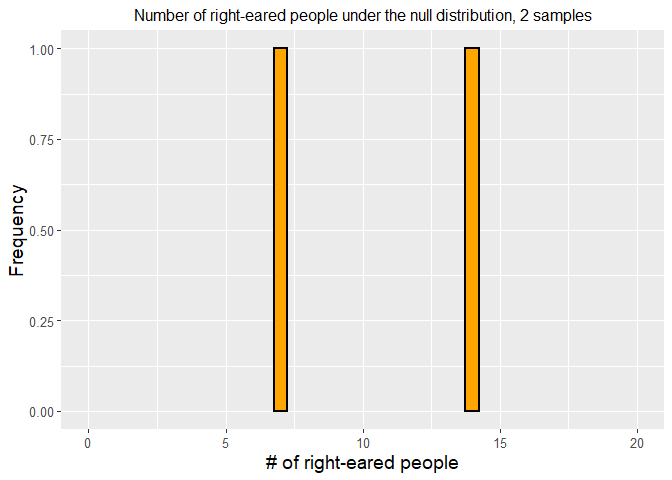
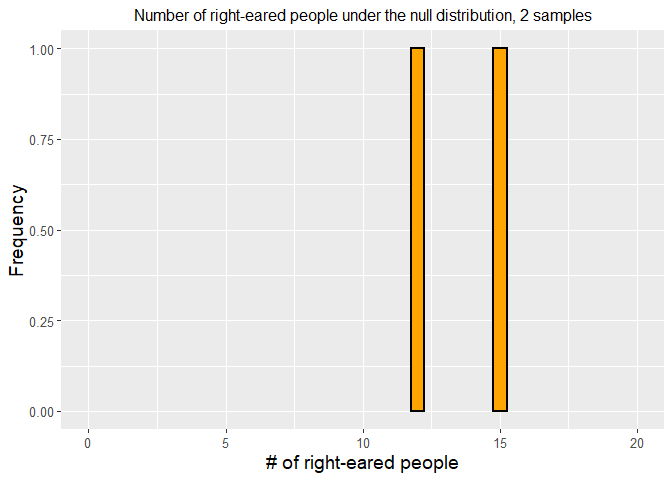
commit and push, 1146, 11/4/2022

Changed region(s): [[0.6875, 0.0938, 0.7812, 0.875], [0.5938, 0.0938, 0.6562, 0.875], [0.4062, 0.0938, 0.4375, 0.875]]

diff --git a/docs/ex3_introduction_to_hypothesis_testing_via_binomial_test.html b/docs/ex3_introduction_to_hypothesis_testing_via_binomial_test.html
@@ -326,7 +326,7 @@ div.tocify {
   <a href="about.html">About</a>
 </li>
 <li>
-  <a href="ex3_introduction_to_hypothesis_testing_via_binomial_tests.html">Lesson 3</a>
+  <a href="ex3_introduction_to_hypothesis_testing_via_binomial_test.html">Lesson 3</a>
 </li>
 <li>
   <a href="ex6_continuous_tests_for_two_populations.html">Lesson 6</a>
@@ -346,7 +346,7 @@ div.tocify {
 <h1 class="title toc-ignore">3. Introduction to hypothesis testing via
 binomial tests</h1>
 <h4 class="author">jjh</h4>
-<h4 class="date">Last compiled on 04 November, 2022 11:37</h4>
+<h4 class="date">Last compiled on 04 November, 2022 11:45</h4>
 
 </div>
 
@@ -565,7 +565,7 @@ ggplot(sampling_experiment_df, aes(Right_Handed)) +
   guides(fill = F)</code></pre>
 <pre><code>## Warning: `guides(&lt;scale&gt; = FALSE)` is deprecated. Please use `guides(&lt;scale&gt; =
 ## &quot;none&quot;)` instead.</code></pre>
-<pre><code>## Warning: Removed 8 rows containing non-finite values (stat_count).</code></pre>
+<pre><code>## Warning: Removed 4 rows containing non-finite values (stat_count).</code></pre>
 <pre><code>## Warning: Removed 1 rows containing missing values (geom_bar).</code></pre>
 <p><img
 src="ex3_introduction_to_hypothesis_testing_via_binomial_test_files/figure-html/unnamed-chunk-10-1.png" /><!-- --></p>
@@ -623,7 +623,7 @@ src="ex3_introduction_to_hypothesis_testing_via_binomial_test_files/figure-html/
 #using our sample
 length(sampling_experiment[sampling_experiment &gt;= 14 | sampling_experiment &lt;= 4])/
   length(sampling_experiment)</code></pre>
-<pre><code>## [1] 0.3458</code></pre>
+<pre><code>## [1] 0.3497</code></pre>
 <pre class="r"><code>#binomial test####
 binom.test(x = 19, n = 25, p = 0.5)</code></pre>
 <pre><code>## 

diff --git a/ex3_introduction_to_hypothesis_testing_via_binomial_test.md b/ex3_introduction_to_hypothesis_testing_via_binomial_test.md
@@ -1,7 +1,7 @@
 ---
 title: "3. Introduction to hypothesis testing via binomial tests"
 author: "jjh"
-date: "Last compiled on 04 November, 2022 11:37"
+date: "Last compiled on 04 November, 2022 11:45"
 output:
   html_document:
     toc: true
@@ -279,7 +279,7 @@ ggplot(sampling_experiment_df, aes(Right_Handed)) +
 ```
 
 ```
-## Warning: Removed 8 rows containing non-finite values (stat_count).
+## Warning: Removed 4 rows containing non-finite values (stat_count).
 ```
 
 ```
@@ -396,7 +396,7 @@ length(sampling_experiment[sampling_experiment >= 14 | sampling_experiment <= 4]
 ```
 
 ```
-## [1] 0.3458
+## [1] 0.3497
 ```
 
 ```r
